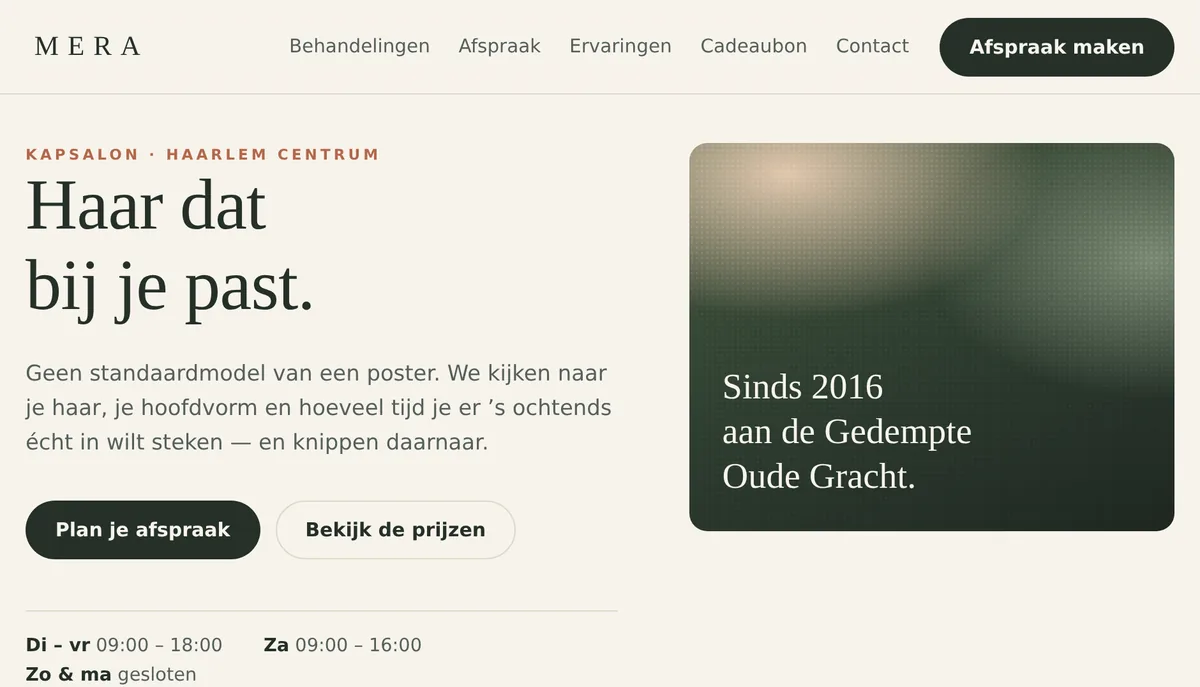
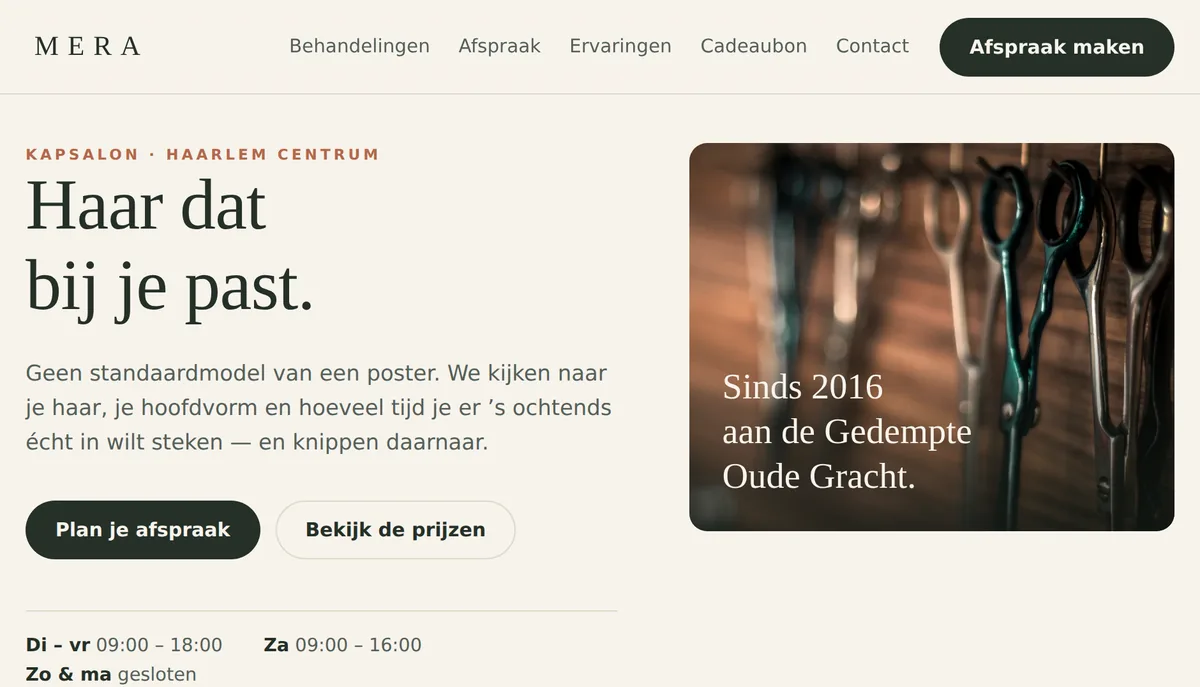
Salonfoto in de kapsalon-demo (CC0)
Het beeldvlak in de hero was een opgebouwd kleurvlak omdat er geen foto
was. Nu staat er een echte: scharen aan een houten wand, CC0 via
StockSnap (Nick Demou). CC0 mag commercieel en vraagt geen
naamsvermelding; toch een regel in de voettekst, dat hoort zo.

- Foto staat lokaal in public/demo/kapsalon/, dus de demo doet nog
  steeds geen enkele externe request.
- Het kleurvlak blijft eronder liggen als vangnet: laadt de foto niet,
  dan is het paneel nog steeds ontworpen in plaats van leeg.
- Scrim onder het bijschrift, anders leest de cremekleurige tekst niet
  op de lichte plekken van de foto.
- Showcase-thumbnail opnieuw geschoten.

Niet gebruikt: AI-gegenereerde beelden. Die kwamen van een gratis
Kling-account, en dat plan staat commercieel gebruik niet toe.

Changed region(s): [[0.555, 0.1834, 0.9867, 0.7336], [0.5858, 0.7031, 0.6167, 0.7336]]

diff --git a/public/demo/kapsalon/index.html b/public/demo/kapsalon/index.html
@@ -232,45 +232,44 @@
         flex-wrap: wrap;
         gap: 0.75rem;
       }
-      /* Beeldvlak zonder foto: een opgebouwd kleurvlak in plaats van een
-         stockbeeld dat toch niet van deze verzonnen salon is. De bogen geven
-         het vlak richting, zodat het als ontwerp leest en niet als een
-         plaatje dat nog moest komen. */
+      /* Beeldvlak. De foto is CC0 (StockSnap, Nick Demou), dus vrij te
+         gebruiken — ook commercieel, ook zonder naamsvermelding. Hij staat
+         in deze map en wordt nergens anders vandaan geladen.
+
+         Het kleurvlak eronder blijft staan als vangnet: laadt de foto niet,
+         dan is het paneel nog steeds een bewust ontworpen vlak in plaats
+         van een gat. */
       .kunst {
         position: relative;
         aspect-ratio: 5 / 4;
         border-radius: var(--radius);
         overflow: hidden;
         background:
-          radial-gradient(85% 60% at 20% 8%, rgba(233, 205, 178, 0.95) 0%, transparent 62%),
-          radial-gradient(70% 55% at 95% 30%, rgba(154, 168, 143, 0.7) 0%, transparent 65%),
+          url("salon.webp") center / cover no-repeat,
+          radial-gradient(
+            85% 60% at 20% 8%,
+            rgba(233, 205, 178, 0.95) 0%,
+            transparent 62%
+          ),
+          radial-gradient(
+            70% 55% at 95% 30%,
+            rgba(154, 168, 143, 0.7) 0%,
+            transparent 65%
+          ),
           linear-gradient(158deg, #46583f 0%, #2c3a2e 55%, #1e2620 100%);
       }
-      /* Bogen: één herhalend patroon, van boven naar beneden uitdovend. */
-      .kunst::before {
-        content: "";
-        position: absolute;
-        inset: -25% -30% auto -30%;
-        height: 150%;
-        background-image:
-          repeating-radial-gradient(
-            circle at 50% 100%,
-            transparent 0 62px,
-            rgba(247, 243, 236, 0.3) 54px 55px
-          );
-        -webkit-mask-image: linear-gradient(to bottom, #000 5%, transparent 78%);
-        mask-image: linear-gradient(to bottom, #000 5%, transparent 78%);
-      }
+      /* Scrim onder het bijschrift: zonder deze verloop leest de cremekleurige
+         tekst niet op de lichte plekken van de foto. */
       .kunst::after {
         content: "";
         position: absolute;
         inset: 0;
-        background-image: radial-gradient(
-          rgba(255, 255, 255, 0.11) 1px,
-          transparent 1px
+        background: linear-gradient(
+          to top,
+          rgba(20, 26, 21, 0.82) 0%,
+          rgba(20, 26, 21, 0.45) 28%,
+          transparent 55%
         );
-        background-size: 4px 4px;
-        mix-blend-mode: overlay;
       }
       .kunst span {
         position: absolute;
@@ -818,7 +817,7 @@
           <div
             class="kunst"
             role="img"
-            aria-label="Sfeerbeeld van de salon: warme kleurvlakken"
+            aria-label="Scharen aan een houten wand in de salon"
           >
             <span>Sinds 2016<br />aan de Gedempte<br />Oude Gracht.</span>
           </div>
@@ -1210,6 +1209,8 @@
           <a href="https://scottprins.nl/" style="text-decoration: underline"
             >scottprins.nl</a
           >.
+          <!-- CC0 verplicht geen naamsvermelding; het is gewoon netjes. -->
+          Foto: Nick Demou via StockSnap (CC0).
         </p>
       </div>
     </footer>
